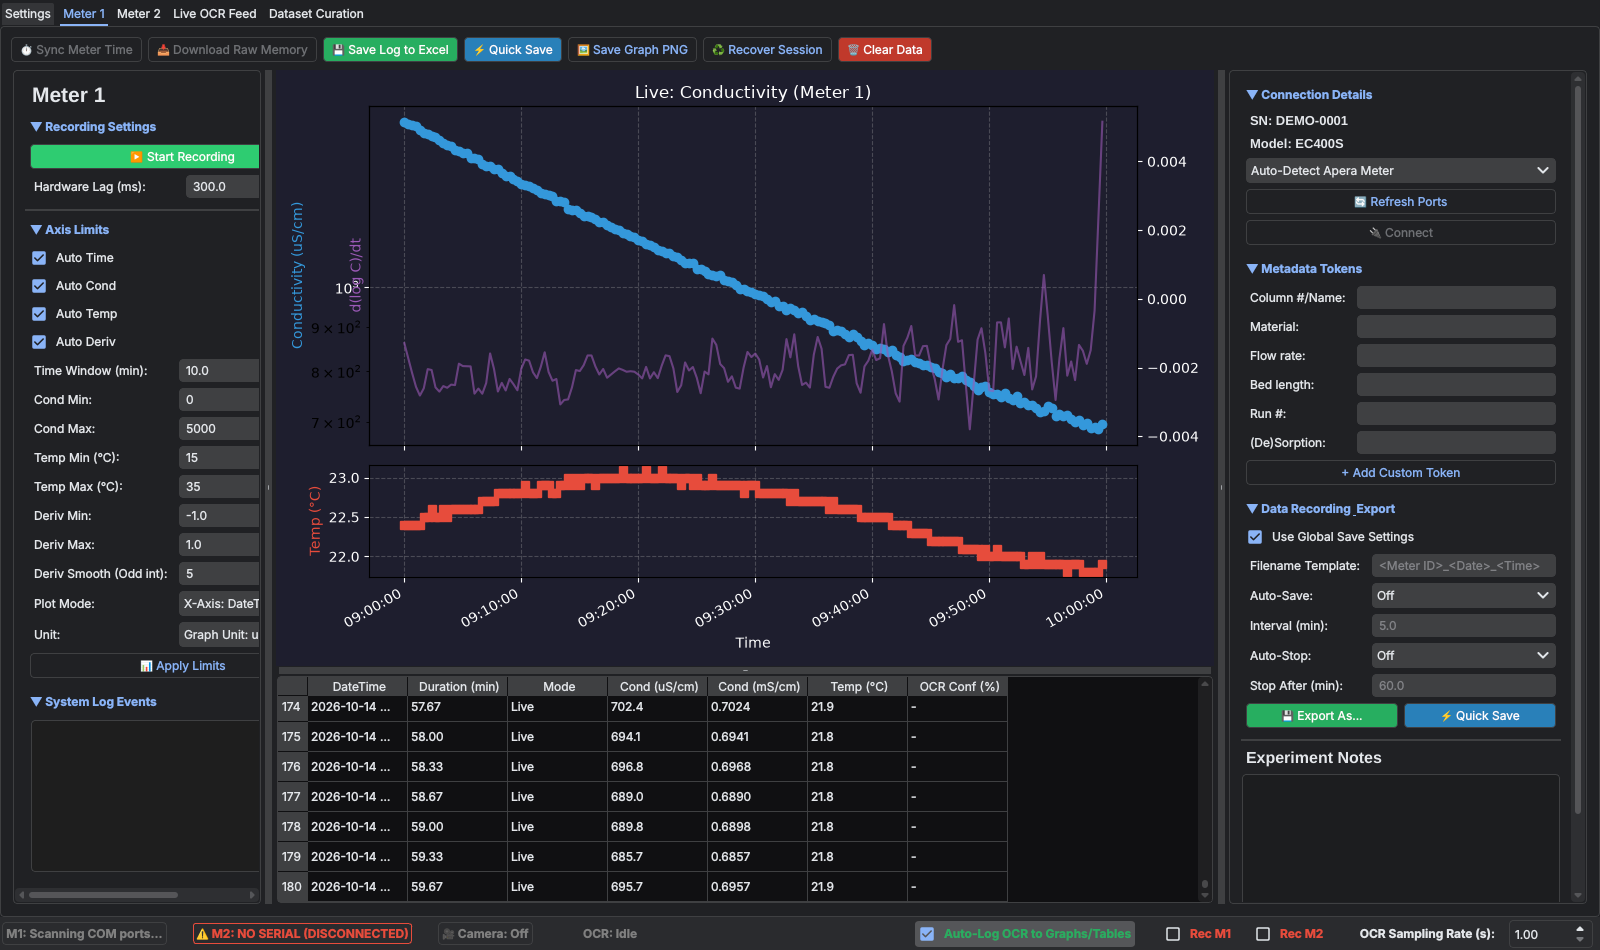
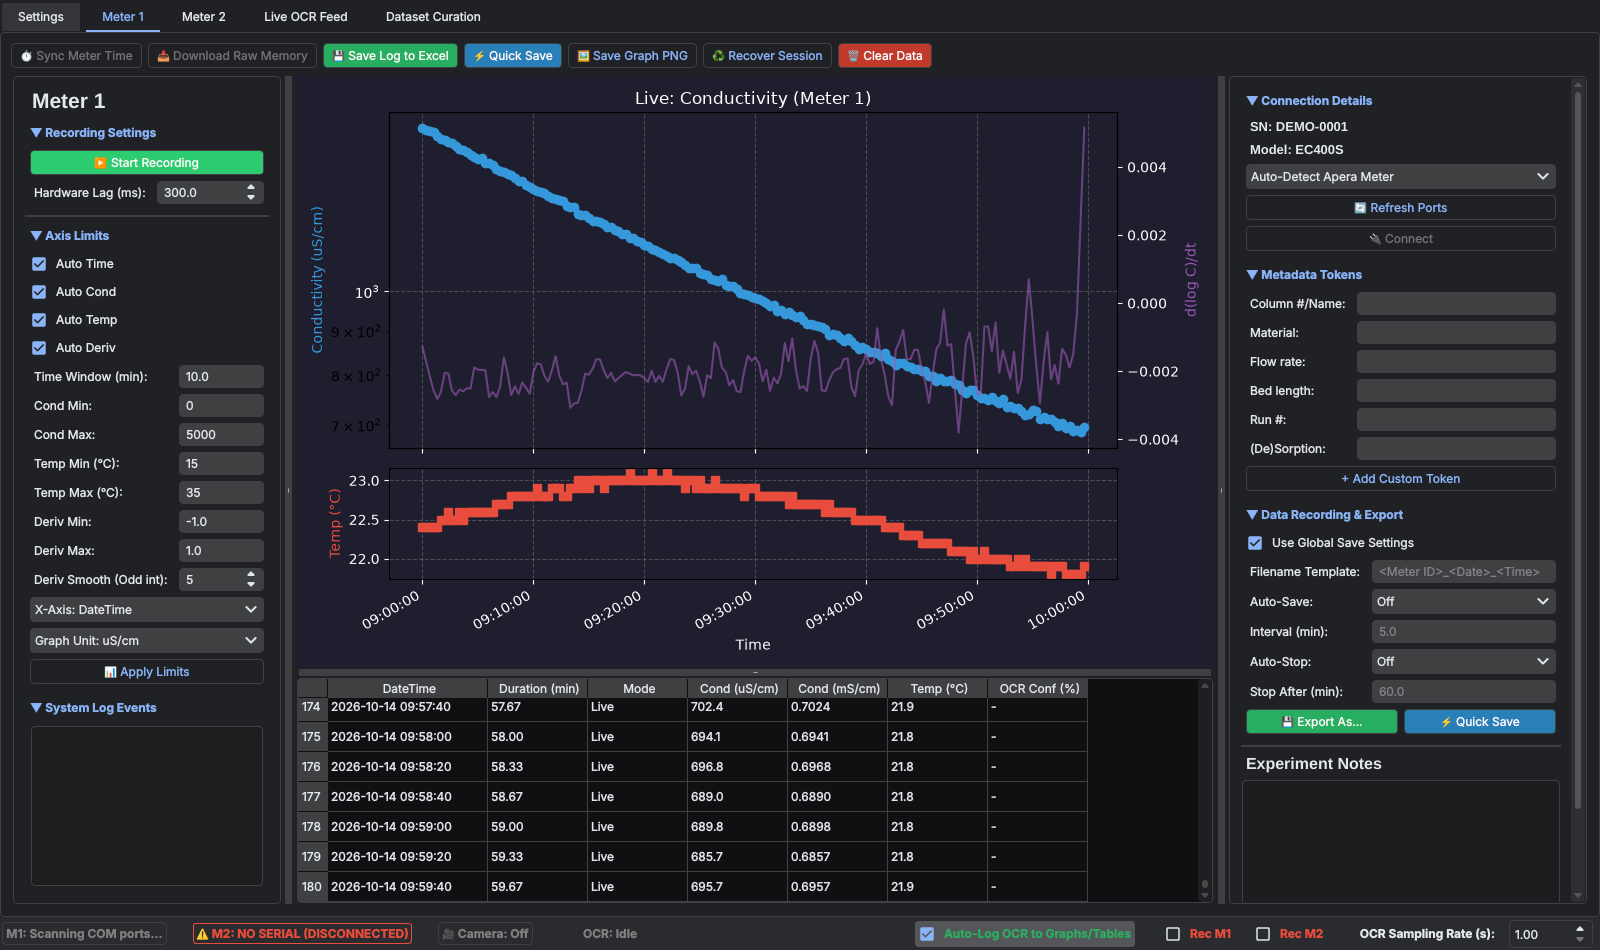
Release 1.1.0: docs, changelog and screenshot
- README: standalone Windows download, Updating section, data-folder
  fallback, build and self-test commands, Python 3.11-3.14.
- CHANGELOG: 1.1.0 section; versioning note no longer assumes < 1.0.
- CLAUDE.md: build/release workflow, updater.py, data-folder fallback.
- Refreshed docs/screenshot.png.

diff --git a/meter_app.py b/meter_app.py
@@ -1,7 +1,7 @@
 import sys
 import os
 
-__version__ = "0.1.0"  # single source of truth; read by pyproject.toml
+__version__ = "1.1.0"  # single source of truth; read by pyproject.toml
 
 # --- Code vs data -----------------------------------------------------------
 # Data (exports, backups, logs) lives outside the code. The app runs with the data

diff --git a/README.md b/README.md
@@ -37,8 +37,21 @@ are needed every few seconds for hours and nobody should have to copy numbers of
   display, and the app reads the digits with a trained model. A curation tab helps collect and
   label images for retraining.
 - **Shared settings**: keep settings in a synced folder so several computers behave the same.
+- **One-click updates**: **Check for Updates** on the Settings tab installs the newest release.
 
 ## Quick start
+
+### Option A: standalone Windows app (no Python needed)
+
+1. Download `Apera-Meter-GUI-<version>-windows.zip` from the
+   [latest release](https://github.com/brandonbtm29/Apera-Meter-GUI/releases/latest).
+2. Unzip it somewhere you can write to (e.g. `Documents`), not `Program Files`.
+3. Open the `Apera Meter GUI` folder and double-click `Apera Meter GUI.exe`. Windows SmartScreen
+   may warn that the app is unrecognised (it isn't code-signed); choose **More info → Run anyway**.
+
+The OCR model is included. Settings are kept in the same folder as the `.exe`.
+
+### Option B: run from source (Windows or macOS)
 
 You need **Python 3.11 or newer**, **Git**, and **[Git LFS](https://git-lfs.com)** (for the
 135 MB OCR model; skip it if you won't use the camera).
@@ -73,7 +86,7 @@ The app opens without a meter attached, so you can look around first. Plug a met
 | **Meter 1 / Meter 2** tabs | **Connect**, **Start Recording**, **Save Log to Excel**, **Quick Save** (overwrite the auto-save file), **Download Raw Memory**, **Sync Meter Time**, **Recover Session**, **Clear Data** |
 | Right panel | Connection, metadata tokens for file names, save/auto-save/auto-stop, experiment notes |
 | Left panel | Axis limits, graph units, time vs. duration axis, event log |
-| **Settings** tab | Save folder and file-name template for both meters, Discord alerts, settings folder, restart |
+| **Settings** tab | Save folder and file-name template for both meters, Discord alerts, settings folder, version and **Check for Updates** |
 | **Live OCR Feed** tab | Camera on/off, draw the reading area, OCR filters and logging |
 | **Dataset Curation** tab | Review and label camera crops for retraining the OCR model |
 
@@ -81,17 +94,20 @@ The app opens without a meter attached, so you can look around first. Plug a met
 
 The app keeps **data** and **settings** in separate places.
 
-**Data** (Excel exports, backups, logs, OCR sessions) goes in a data folder, by default:
+**Data** (Excel exports, backups, logs, OCR sessions) goes in a data folder:
+
+- `~/SyncThing/UAkron Playground/Electrical Conductivity Meter/` if that SyncThing folder exists
+  (the lab's computers), otherwise
+- `~/Documents/Apera Meter Data/`.
 
 ```
-~/SyncThing/UAkron Playground/Electrical Conductivity Meter/
+<data folder>/
 ├── Data/            Excel exports (the default save folder)
 ├── Data Backups/    crash-recovery CSVs, one per meter
 └── Sessions/        OCR captures and the training dataset
 ```
 
-That default suits the lab's SyncThing setup. To use another folder, set an environment
-variable before starting the app:
+To use another folder, set an environment variable before starting the app:
 
 | Variable | Meaning |
 |---|---|
@@ -100,13 +116,24 @@ variable before starting the app:
 | `UAKRON_SETTINGS_DIR` | Read and write settings in this folder |
 
 **Settings** (`config.json` for meter and app settings, `global_rois.json` for the camera reading
-areas) live next to the code by default and are never committed. On the **Settings** tab,
+areas) live next to the code (or next to the `.exe`) by default and are never committed. On the **Settings** tab,
 **Settings Folder** can move them to a synced folder; relative paths are inside the data folder,
 so `Settings` keeps them identical across computers.
 
 All settings are edited in the app, which writes `config.json` itself; there's no need to edit
 it by hand. Treat it as private: it holds your **Discord webhook URLs**, and anyone with a
 webhook URL can post to that channel.
+
+## Updating
+
+**Settings → Check for Updates** asks GitHub for the newest release and shows what changed.
+
+- **Running from source (a git clone):** **Update and Restart** moves the clone to the new release,
+  reinstalls its Python packages and restarts the app. If you've edited the app's files or made
+  your own commits, it stops and explains instead of overwriting them. Your data and settings are
+  never touched.
+- **Standalone app:** it opens the release page; download the new zip and replace the old folder
+  (copy your `config.json` across if you keep settings next to the `.exe`).
 
 ## How it works
 
@@ -125,6 +152,7 @@ webhook URL can post to that channel.
 | `ocr_pipeline.py`, `ocr_model.py` | Camera capture, preprocessing and the OCR network |
 | `dataset_curation_tab.py` | The labelling tab |
 | `settings_location.py` | Where settings are stored (shared with the lab's other apps) |
+| `updater.py` | Checks GitHub for a newer release and updates a git clone |
 | `Scripts/` | Build script, log repair (`cleanup_1000x_gaps.py`), screenshot generator |
 
 ## Good to know
@@ -137,10 +165,10 @@ webhook URL can post to that channel.
   different setup, expect to collect and label new images with the curation tab and retrain.
 - If you cloned without Git LFS, `meter_ocr_model.pt` is a small text pointer and OCR won't
   load. Run `git lfs install` and then `git lfs pull` to fetch it.
-- `pyqtdarktheme`, used for the dark theme, is no longer maintained. pip installs version 2.1.0
-  on Python 3.11 and 0.1.7 on 3.12 and newer; the app works with both.
-- `Scripts/build_app.py` builds a single-file executable with PyInstaller. It hasn't been tested
-  recently and doesn't bundle the OCR model or icon yet.
+- The dark theme comes from `pyqtdarktheme-fork`. If an older environment still has
+  `pyqtdarktheme` installed, run `pip uninstall pyqtdarktheme` and then reinstall the app
+  (**Check for Updates** does this for you).
+- There's no standalone macOS build yet; on a Mac, run from source (Option B).
 
 ## Development
 
@@ -149,9 +177,13 @@ python -m pip install -e ".[dev]"     # add ,ocr to also run the OCR model test
 pytest                                # headless smoke tests; never touch real data
 ruff check . && ruff format --check .
 python Scripts/make_screenshot.py     # refresh docs/screenshot.png
+
+python -m pip install -e ".[ocr,dev]" # needed for a standalone build
+python Scripts/build_app.py           # dist/Apera Meter GUI/ + a zip
+"dist/Apera Meter GUI/Apera Meter GUI.exe" --self-test   # starts, checks tabs + OCR model, exits
 ```
 
-CI runs the same checks on Windows and Linux with Python 3.11–3.13, and scans the full history
+CI runs the same checks on Windows and Linux with Python 3.11–3.14, and scans the full history
 for secrets. The version lives in one place, `__version__` in `meter_app.py`; changes are listed
 in [CHANGELOG.md](CHANGELOG.md). Security reports: see [SECURITY.md](SECURITY.md).
 
@@ -163,6 +195,9 @@ git tag -a vX.Y.Z -m "Apera Meter GUI X.Y.Z"
 git push origin main && git push origin vX.Y.Z
 gh release create vX.Y.Z --title "Apera Meter GUI X.Y.Z" --notes-file notes.md --latest --verify-tag
 ```
+
+Publishing the release starts the **Release build** workflow, which builds the Windows app, runs
+its self-test and attaches the zip to the release (about 15 minutes).
 
 ## How this was built
 

diff --git a/CLAUDE.md b/CLAUDE.md
@@ -8,16 +8,17 @@ Dual-meter PyQt6 app for Apera EC400S / EC8500 conductivity meters (serial auto-
 - Test: `pytest` (headless; `tests/conftest.py` points the data and settings folders at a temp dir before `meter_app` is imported, because importing it `chdir`s into the data folder).
 - Lint/format: `ruff check . && ruff format --check .`. `settings_location.py` is excluded from ruff so it stays byte-identical to the other UAkron repos. Don't enable import sorting (torch must load before PyQt6 on Windows).
 - Version: `__version__` in `meter_app.py` is the only place; update `CHANGELOG.md` with every user-facing change. Release steps are in the README.
-- Build: `python Scripts/build_app.py` → `dist/Apera_Meter_GUI` (untested; doesn't bundle the model or icon).
+- Build: `python Scripts/build_app.py` → `dist/Apera Meter GUI/` (PyInstaller folder app with the model and icon) + zip. `--self-test` on the built exe checks it starts and loads the model. Publishing a GitHub release runs `.github/workflows/release.yml`, which builds on Windows and attaches the zip.
 - Use a per-machine virtualenv: `python -m venv .venv` in this folder (gitignored). Never sync or commit it.
 - `meter_ocr_model.pt` is stored with **Git LFS** (`.gitattributes`). Run `git lfs install` on each machine before cloning. CI deliberately doesn't fetch it.
 - Commits: author email `208085582+brandonbtm29@users.noreply.github.com`; end AI-assisted commits with a `Co-Authored-By:` trailer. CI (`.github/workflows/ci.yml`) must stay green.
 
 ## Code map
-- `meter_app.py` (~3,200 lines): `MeterController` (per-meter tab and serial), `SettingsTab`, `OCRFeedTab` (camera + ROI via `InteractiveImageLabel`, ROIs saved in `global_rois.json` in the data folder), `MeterApp` (main window).
+- `meter_app.py` (~3,700 lines; `main()`/`create_app()` at the bottom): `MeterController` (per-meter tab and serial), `SettingsTab`, `OCRFeedTab` (camera + ROI via `InteractiveImageLabel`, ROIs saved in `global_rois.json` in the data folder), `MeterApp` (main window).
 - `ocr_model.py`: `MeterCRNN`, the deployed model definition. A copy lives in `LCD-Digit-CRNN`; keep the two in sync if the architecture changes.
 - `ocr_pipeline.py`: preprocessing and inference; loads `meter_ocr_model.pt` from this folder via `__file__`.
 - `dataset_curation_tab.py`: labelling UI; writes crops to `Sessions/Master_Dataset/` in the data folder (the training set for LCD-Digit-CRNN).
+- `updater.py`: GitHub release check and git-clone update behind Settings → Check for Updates (no Qt; tested in `tests/test_updater.py`).
 - `Scripts/`: `build_app.py`, `cleanup_1000x_gaps.py`, `make_screenshot.py` (renders `docs/screenshot.png` with fake data), `preview.py`, `test.py` (app helpers only).
 - `tests/`: headless pytest smoke tests.
 
@@ -30,7 +31,7 @@ Training, the DoE sweeps, the adversarial benchmark and error profiling moved to
 
 ## Where code and data live
 - **Code** (this repo) is cloned outside SyncThing, e.g. `~/GitHub Projects/UAkron/Apera-Meter-GUI`. It syncs through GitHub only.
-- **Instrument data** stays in SyncThing, by default `~/SyncThing/UAkron Playground/Electrical Conductivity Meter/`. Never copy data into the repo, and never commit the settings files listed below.
+- **Instrument data** stays in SyncThing, by default `~/SyncThing/UAkron Playground/Electrical Conductivity Meter/` (when `~/SyncThing/UAkron Playground` doesn't exist, `~/Documents/Apera Meter Data`). Never copy data into the repo, and never commit the settings files listed below.
 - **How it works:** at startup the app `chdir`s into its SyncThing data folder (`DATA_DIR`, override with `UAKRON_APP_DATA_DIR` or `UAKRON_DATA_DIR`). Every relative data path (`Data/`, `Data Backups/`, `Sessions/`, run logs) therefore resolves inside SyncThing, and the default save folder is `Data` there. Files that ship with the code (icons, the OCR model) must be loaded via `script_dir` / `__file__`, never by bare relative name. Run the app from this clone.
 - **Settings folder (since 10 Oct 2026):** the settings files (`config.json`, `global_rois.json`) are read from `CONFIG_DIR`, resolved by `settings_location.py` (identical copy in every UAkron repo). Default: this repo folder (gitignored), so a fresh clone starts from the app's defaults. The per-machine pointer `settings_location.json` (gitignored), set from the app's "Settings Folder" box, can move them; a relative path is relative to the data folder. Brandon's machines point at `Settings`, i.e. `UAkron Playground/<App>/Settings/` in SyncThing, so settings stay identical across computers (including `secrets.json`; never print it). `UAKRON_SETTINGS_DIR` overrides the pointer. Store save folders relative to the data folder (e.g. `Data`), not as absolute paths.
 

diff --git a/CHANGELOG.md b/CHANGELOG.md
@@ -1,10 +1,40 @@
 # Changelog
 
 All notable changes to Apera Meter GUI. Versions follow [Semantic Versioning](https://semver.org/):
-while the app is below 1.0, new features bump the middle number and fixes bump the last.
-The format is based on [Keep a Changelog](https://keepachangelog.com/).
+new features bump the middle number, fixes bump the last, and changes that break existing setups
+bump the first. The format is based on [Keep a Changelog](https://keepachangelog.com/).
 
 ## [Unreleased]
+
+## [1.1.0] - 2026-10-14
+
+The app is now available as a standalone Windows download and can update itself. (Version
+numbers jump from 0.1.0 to 1.1.0 to reflect that the app is a finished, everyday tool.)
+
+### Added
+- **Standalone Windows app**: each release has a zip with the app, Python and the OCR model
+  included. No Python install needed.
+- **Check for Updates** on the Settings tab (replaces **Restart Application**): shows the new
+  release's notes and, for a git clone, updates and restarts in one click. Local edits are never
+  overwritten.
+- The version number is shown on the Settings tab and in the window title.
+- Python 3.14 support.
+
+### Changed
+- On computers without the lab's SyncThing folder, data now goes to `~/Documents/Apera Meter Data`
+  instead of creating `~/SyncThing/UAkron Playground/...`. Lab computers are unaffected.
+- The dark theme now uses the maintained `pyqtdarktheme-fork` (same look).
+- Interface polish: section titles show "&" instead of "_", the X-axis and unit menus are no
+  longer clipped, the DateTime column fits a full timestamp, the d(log C)/dt label no longer
+  overlaps the conductivity axis, roomier tabs, and "General" instead of "Global & Application
+  Settings".
+
+### Fixed
+- Turning the camera on with no camera attached showed "Camera: Feed Active"; it now says
+  "Camera: Not found".
+- The Discord test alert showed a literal `\n` instead of a line break.
+- Closing the app with Ctrl+C or during shutdown is no longer swallowed by catch-all error
+  handlers.
 
 ## [0.1.0] - 2026-10-14
 
@@ -49,5 +79,6 @@ with Claude (Anthropic).
 - Personal email addresses, home-folder paths and machine names were removed from the files and
   the git history. Commit IDs before this release changed as a result.
 
-[Unreleased]: https://github.com/brandonbtm29/Apera-Meter-GUI/compare/v0.1.0...HEAD
+[Unreleased]: https://github.com/brandonbtm29/Apera-Meter-GUI/compare/v1.1.0...HEAD
+[1.1.0]: https://github.com/brandonbtm29/Apera-Meter-GUI/compare/v0.1.0...v1.1.0
 [0.1.0]: https://github.com/brandonbtm29/Apera-Meter-GUI/releases/tag/v0.1.0
